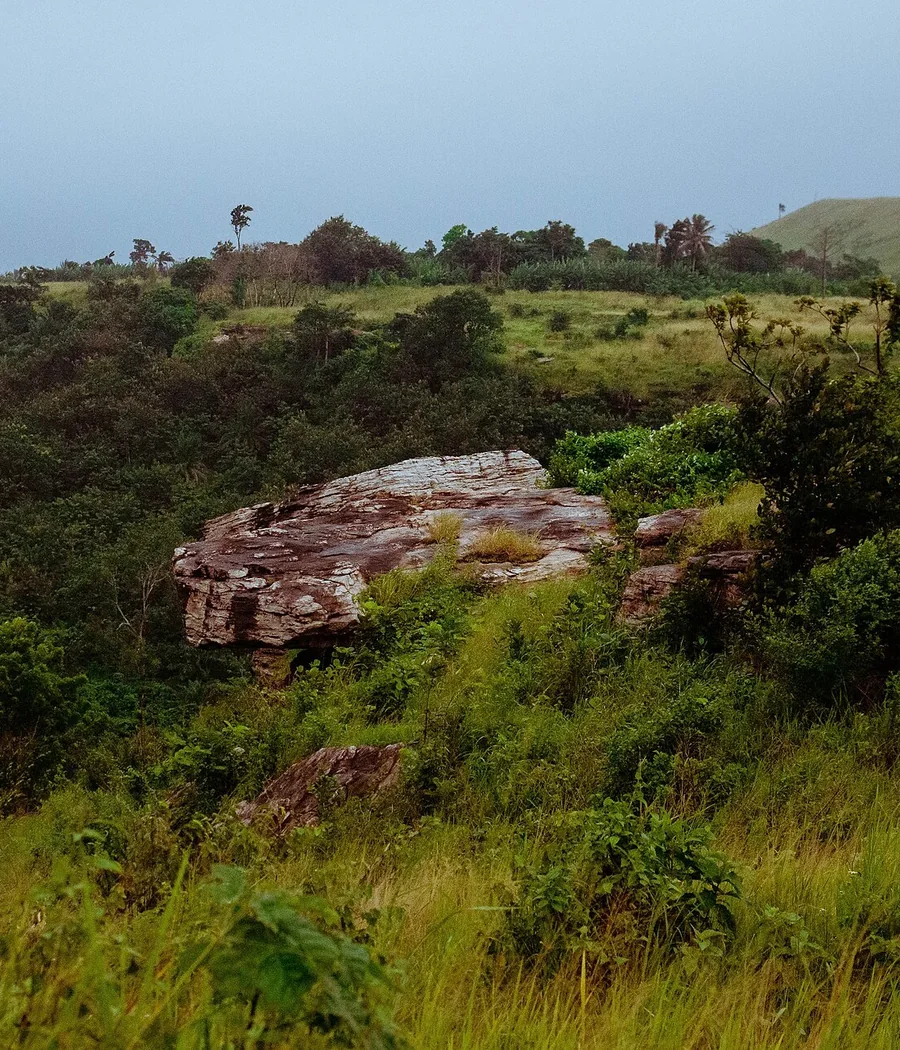
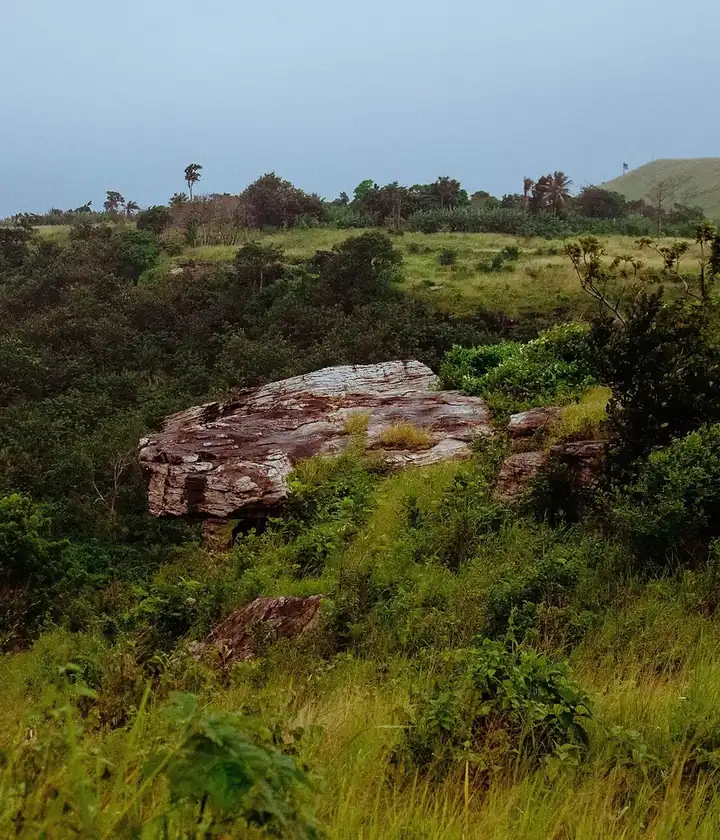
changes

Changed region(s): [[0.4889, 0.4333, 0.5194, 0.4643]]

diff --git a/place.html b/place.html
@@ -28,7 +28,7 @@
             <picture class="hero-picture">
                 <source media="(max-width: 700px)" srcset="images/ghana-mobile.webp" type="image/webp">
                 <img src="images/ghana-wide.webp" alt="A scenic landscape along a hiking trail in Boti, Ghana"
-                    width="1920" height="1280" fetchpriority="high">
+                    width="1100" height="738" fetchpriority="high">
             </picture>
 
             <section class="info-card data-card" aria-labelledby="data-heading">

diff --git a/styles/place.css b/styles/place.css
@@ -129,7 +129,7 @@ main {
 }
 
 .weather-card h2::after {
-    content: " ⛅";
+    content: " \26C5";
     float: right;
 }
 
@@ -158,7 +158,7 @@ main {
 }
 
 .image-credit {
-    margin-top: 0.5rem !important;
+    margin-top: 0.5rem;
     font-size: 0.78rem;
 }
 
@@ -245,7 +245,7 @@ main {
     *,
     *::before,
     *::after {
-        scroll-behavior: auto !important;
-        transition-duration: 0.01ms !important;
+        scroll-behavior: auto;
+        transition-duration: 0.01ms;
     }
 }
